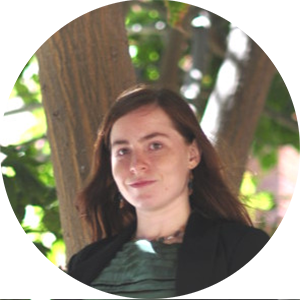
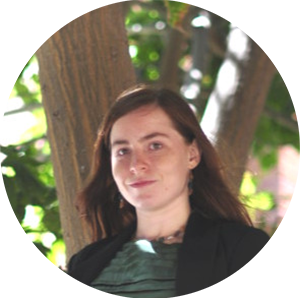
mobile team update

diff --git a/app/mobile/page.tsx b/app/mobile/page.tsx
@@ -205,75 +205,73 @@ export default function MobilePage() {
               <div className={`mt-6 text-5xl text-pink-700 font-black leading-none ${gabarito.className}`}>
                 Leadership
               </div>
-                <div className="grid grid-cols-2 md:grid-cols-4 gap-2 mt-8 w-full">
+                <div className="grid grid-cols-2 md:grid-cols-5 gap-2 mt-8 w-full">
                     <TeamCard
                         name="Rachel Sargent"
-                        role="CEO and co-founder"
+                        role="CEO and Co-founder"
                         image="/team/rachel.webp"
                         linkedIn="https://www.linkedin.com/in/rachel-sargent-abb1972/"
-                        description="Entrepreneur for 30 years in M&A, finance, consulting, HoReCa. Founded Osprey Partners M&A boutique, AICA global advisory network, a social enterprise restaurant, food writing. Electrical engineering degree from UCL,UK. UK Chartered accountant. Present: Masters degree in nutrition and food science at USAMV CN."
+                        description="25 years M&A, finance, consulting, HoReCa.  UCL Electrical Engineering,  UK Chartered Accountant, MSc Nutrition and Food Science, USAMV Cluj"
                     />
                     <TeamCard
                         name="James Atkins"
-                        role="CSO and co-founder"
+                        role="CSO and Co-founder"
                         image="/team/james.webp"
                         linkedIn="https://www.linkedin.com/in/james-atkins-8928374a/"
-                        description="Entrepreneur focussed on climate change and biodiversity. Founder of Vertis Environmental Finance. Co-founder of Zsmboki Biokert, Danube Kids and Planet League. Author and blogger."
+                        description="Climate & biodiversity entrepreneur, Founder of Vertis Environmental Finance. UK Chartered Accountant."
                     />
                     <TeamCard
-                        name="Mihai Anitei"
-                        role="Head of Engineering"
-                        image="/team/mihai.webp"
-                        linkedIn="https://www.linkedin.com/in/mihai-anitei-305500b/"
-                        description="Experienced CEO of large industrial facilities in Romania including Ameropa, Azo Mures, Agrana, Greiff, St Gobain. Degrees / Phd in electromechanical engineering, agribusiness and industrial outsourcing."
+                        name="Carla Bodea"
+                        role="HCP Relationship Manager"
+                        image="/team/carla.webp"
+                        description="Certified nutrition practitioner [MSc Finance UBB Cluj, MSc Nutrition & Food Science USAMV Cluj"
                     />
                     <TeamCard
                         name="Tudor Nicolau"
-                        role="Communications"
+                        role="Design & Storytelling"
                         image="/team/tudor.webp"
-                        description="Degree in graphic design; functions of aesthetics and the aesthetic of functions. Worked in advertising, web design and marketing. Former chef, passionate about sports and sport nutrition."
-                    />
-                </div>
-
-                <div className={`mt-16 text-5xl text-pink-700 font-black leading-none ${gabarito.className}`}>
-                Advisors
-                </div>
-
-                <div className="grid grid-cols-2 md:grid-cols-5 gap-2 mt-8 w-full">
-                    <TeamCard
-                        name="Máté Szász"
-                        role="Sales and nutrition"
-                        image="/team/mate.webp"
-                        linkedIn="https://www.linkedin.com/in/mate-szasz-a35674145/"
-                        description="Sports Diagnostics and Scientific lead for Synlab. Nutrition advisor to the Hungarian Olympic Committee. Former head of sales, Scitech."
+                        description="Graphic design, advertising, marketing professional. Degree in Fine Arts from Bucharest University."
                     />
                     <TeamCard
-                        name="Dr Dan Vodnar"
-                        role="Food science and technology"
-                        image="/team/dan.webp"
-                        linkedIn="https://www.linkedin.com/in/dan-c-vodnar-16739082/"
-                        description="Professor, Faculty of Food, Science and Technology, USAMV Cluj-Napoca and member of the Romanian Academy. Gut microbiome and fermentation expert."
-                    />
-                    <TeamCard
-                        name="Chris Butters"
-                        role="Finance"
-                        image="/team/chris.webp"
-                        linkedIn="https://www.linkedin.com/in/chris-butters-b54b1718/"
-                        description="Experienced M & A advisor in UK and Central Europe"
-                    />
-                    <TeamCard
-                        name="Giovanni Quaglia"
-                        role="Operations"
-                        image="/team/gio.webp"
-                        linkedIn="https://www.linkedin.com/in/giovanniquaglia/"
-                        description="Manager and CFO roles in international agribusiness"
+                        name="Gergő Gregus-Fóris"
+                        role="Business Analyst"
+                        image="/team/mihai.webp"
+                        description="Cash flow forecasting and financial modelling. UBB Cluj Political Science. CFA1 candidate."
                     />
                     <TeamCard
                         name="Jennifer Austin"
                         role="Biodiversity Lead"
                         image="/team/jen.webp"
                         linkedIn="https://www.linkedin.com/in/austinjk/"
-                        description="Social entrepreneur, healthcare, wildlife"
+                        description="Social entrepreneur, healthcare, technology. Wildlife Conservation strategy & impact, Flite Biodiversity scorecard. MBA UCLA, US"
+                    />
+                    <TeamCard
+                        name="Mihai Anitei"
+                        role="Engineering & Production"
+                        image="/team/mihai.webp"
+                        linkedIn="https://www.linkedin.com/in/mihai-anitei-305500b/"
+                        description="25 yrs CEO of large industrial Agri&Food facilities in Romania, Europe and US. MSc Electromechanical engineering, PhD Industrial Outsourcing"
+                    />
+                    <TeamCard
+                        name="Chris Butters"
+                        role="Advisor, Finance"
+                        image="/team/chris.webp"
+                        linkedIn="https://www.linkedin.com/in/chris-butters-b54b1718/"
+                        description="M&A advisor, former PWC CEE Corporate Finance lead partner. Capital markets & growth advisory. UK Chartered Accountant."
+                    />
+                    <TeamCard
+                        name="Giovanni Quaglia"
+                        role="Advisor, Operations"
+                        image="/team/gio.webp"
+                        linkedIn="https://www.linkedin.com/in/giovanniquaglia/"
+                        description="25 yrs Manager and CFO, international agribusiness. Multi-market scaling & ops excellence. Chartered Management Accountant."
+                    />
+                  <TeamCard
+                        name="Máté Szász"
+                        role="Advisor, Nutrition"
+                        image="/team/mate.webp"
+                        linkedIn="https://www.linkedin.com/in/mate-szasz-a35674145/"
+                        description="20 yrs Sales & marketing director in nutrition supplements. Hungarian Olympic Cttee lead for Nutrition. MSc Nuclear Biology "
                     />
                 </div>
             
